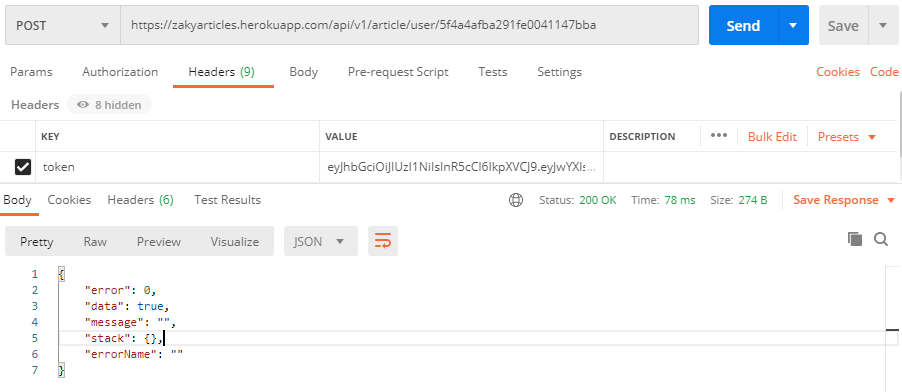
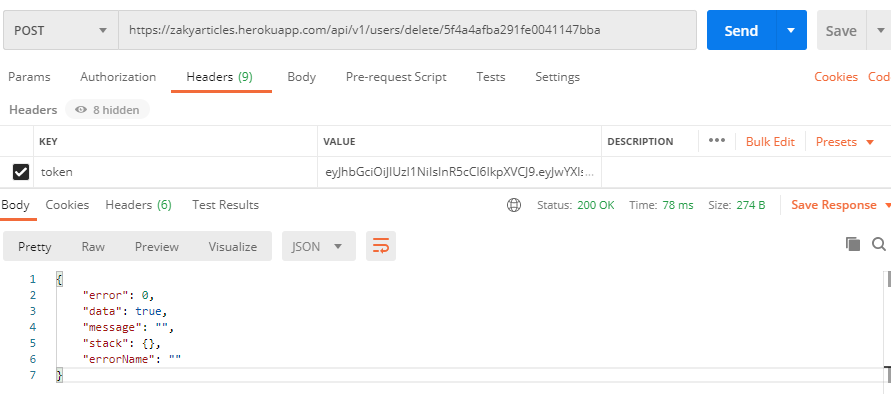
update readme.md

diff --git a/README.md b/README.md
@@ -73,14 +73,21 @@ B. Admin<br/>
     ```
     send data ke https://zakyarticles.herokuapp.com/api/v1/article/delete/:id_article , contohnya sebagai berikut: <br/>
     ![alt text](https://github.com/zakywtf/portal_berita/blob/master/documentation/deletearticle.png?raw=true)<br/><br/><br/>
-    6. Hapus author<br/>
+    6. Tambah author<br/>
     dengan method 
     ```
     POST
     ```
-    send data ke https://zakyarticles.herokuapp.com/api/v1/category/create , contohnya sebagai berikut: <br/>
+    send data ke https://zakyarticles.herokuapp.com/api/v1/users/create, contohnya sebagai berikut: <br/>
+    ![alt text](https://github.com/zakywtf/portal_berita/blob/master/documentation/createauthor.png?raw=true)<br/><br/><br/>
+    7. Hapus author<br/>
+    dengan method 
+    ```
+    POST
+    ```
+    send data ke https://zakyarticles.herokuapp.com/api/v1/users/delete/:id_author , contohnya sebagai berikut: <br/>
     ![alt text](https://github.com/zakywtf/portal_berita/blob/master/documentation/deleteauthor.png?raw=true)<br/><br/><br/>
-    7. Create category<br/>
+    8. Create category<br/>
     post data ke url https://zakyarticles.herokuapp.com/api/v1/category/create , dengan menggunakan body raw json : <br/>
     ```
     {
@@ -89,7 +96,7 @@ B. Admin<br/>
     ```
     contoh ganti password seperti berikut ini: <br/>
     ![alt text](https://github.com/zakywtf/portal_berita/blob/master/documentation/createcategory.png?raw=true)<br/><br/><br/>
-    8. Lihat daftar category<br/>
+    9. Lihat daftar category<br/>
     dengan method 
     ```
     GET
